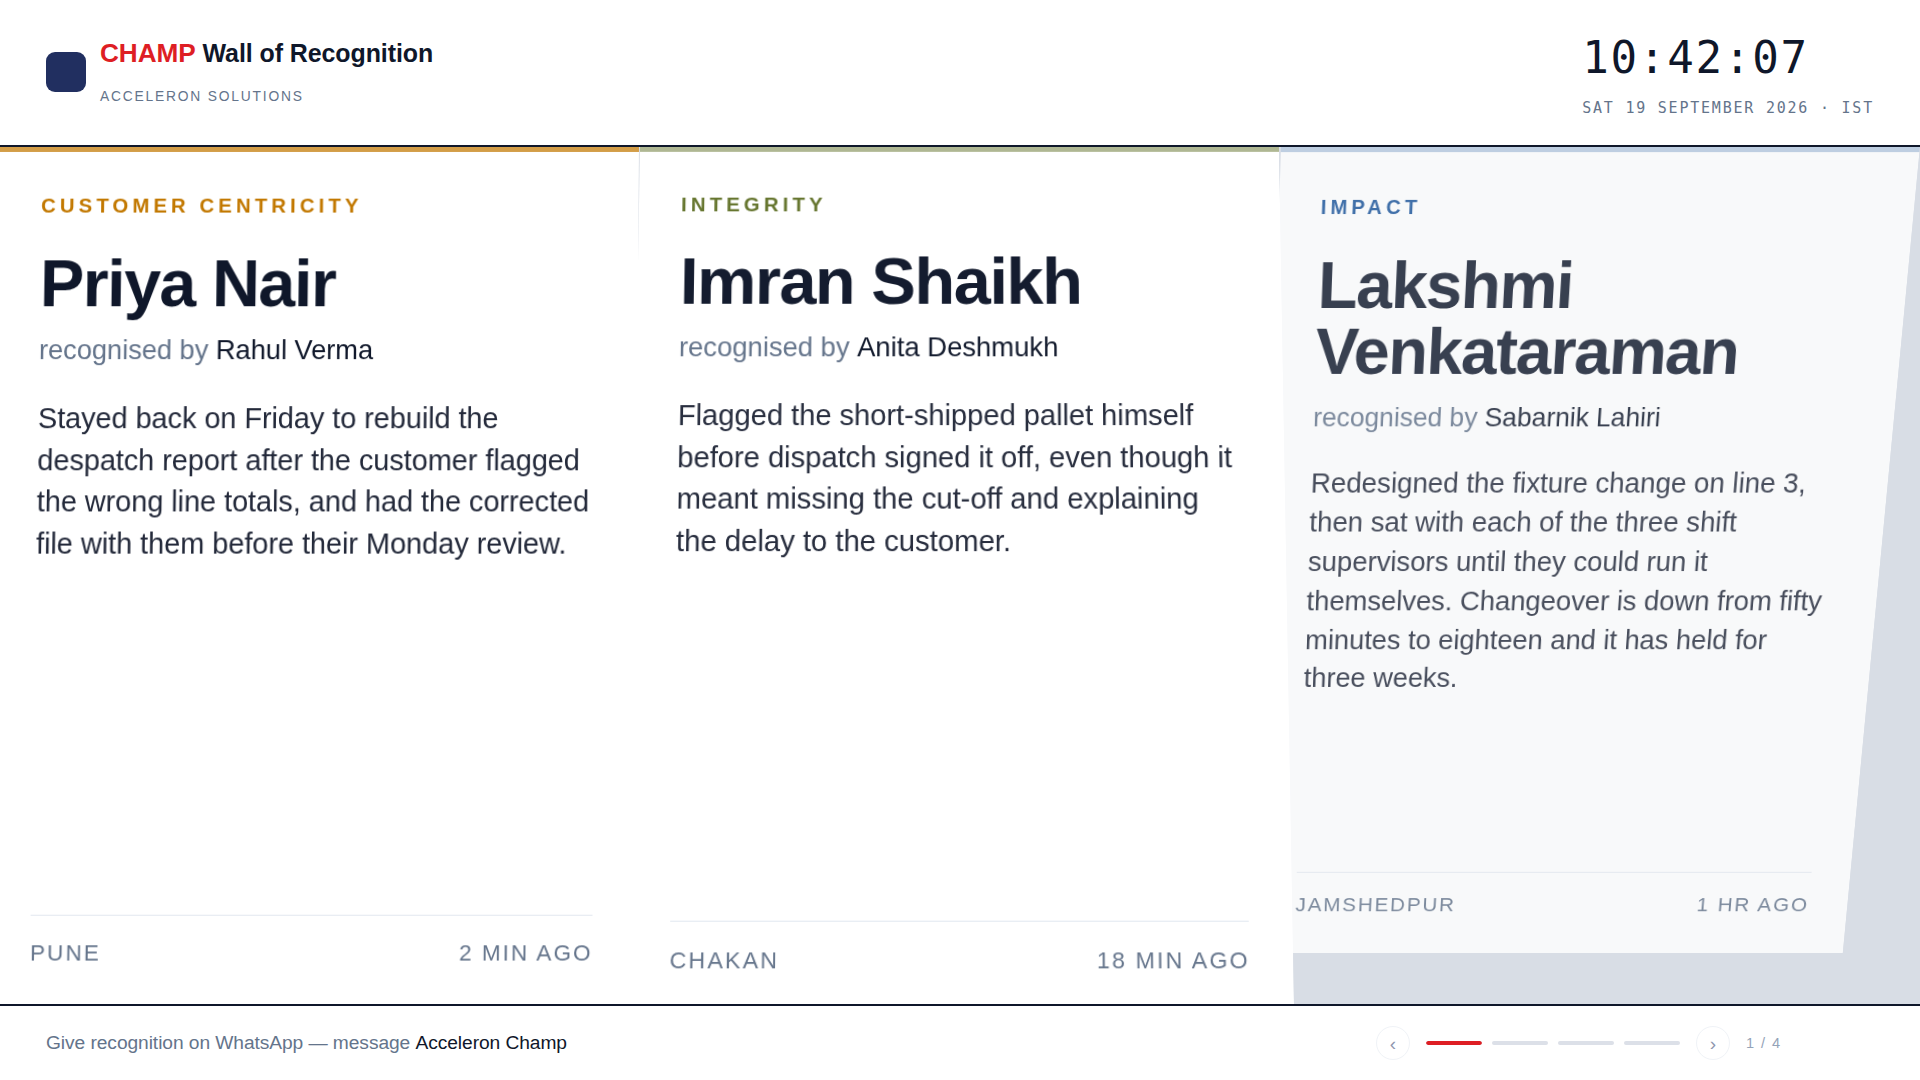
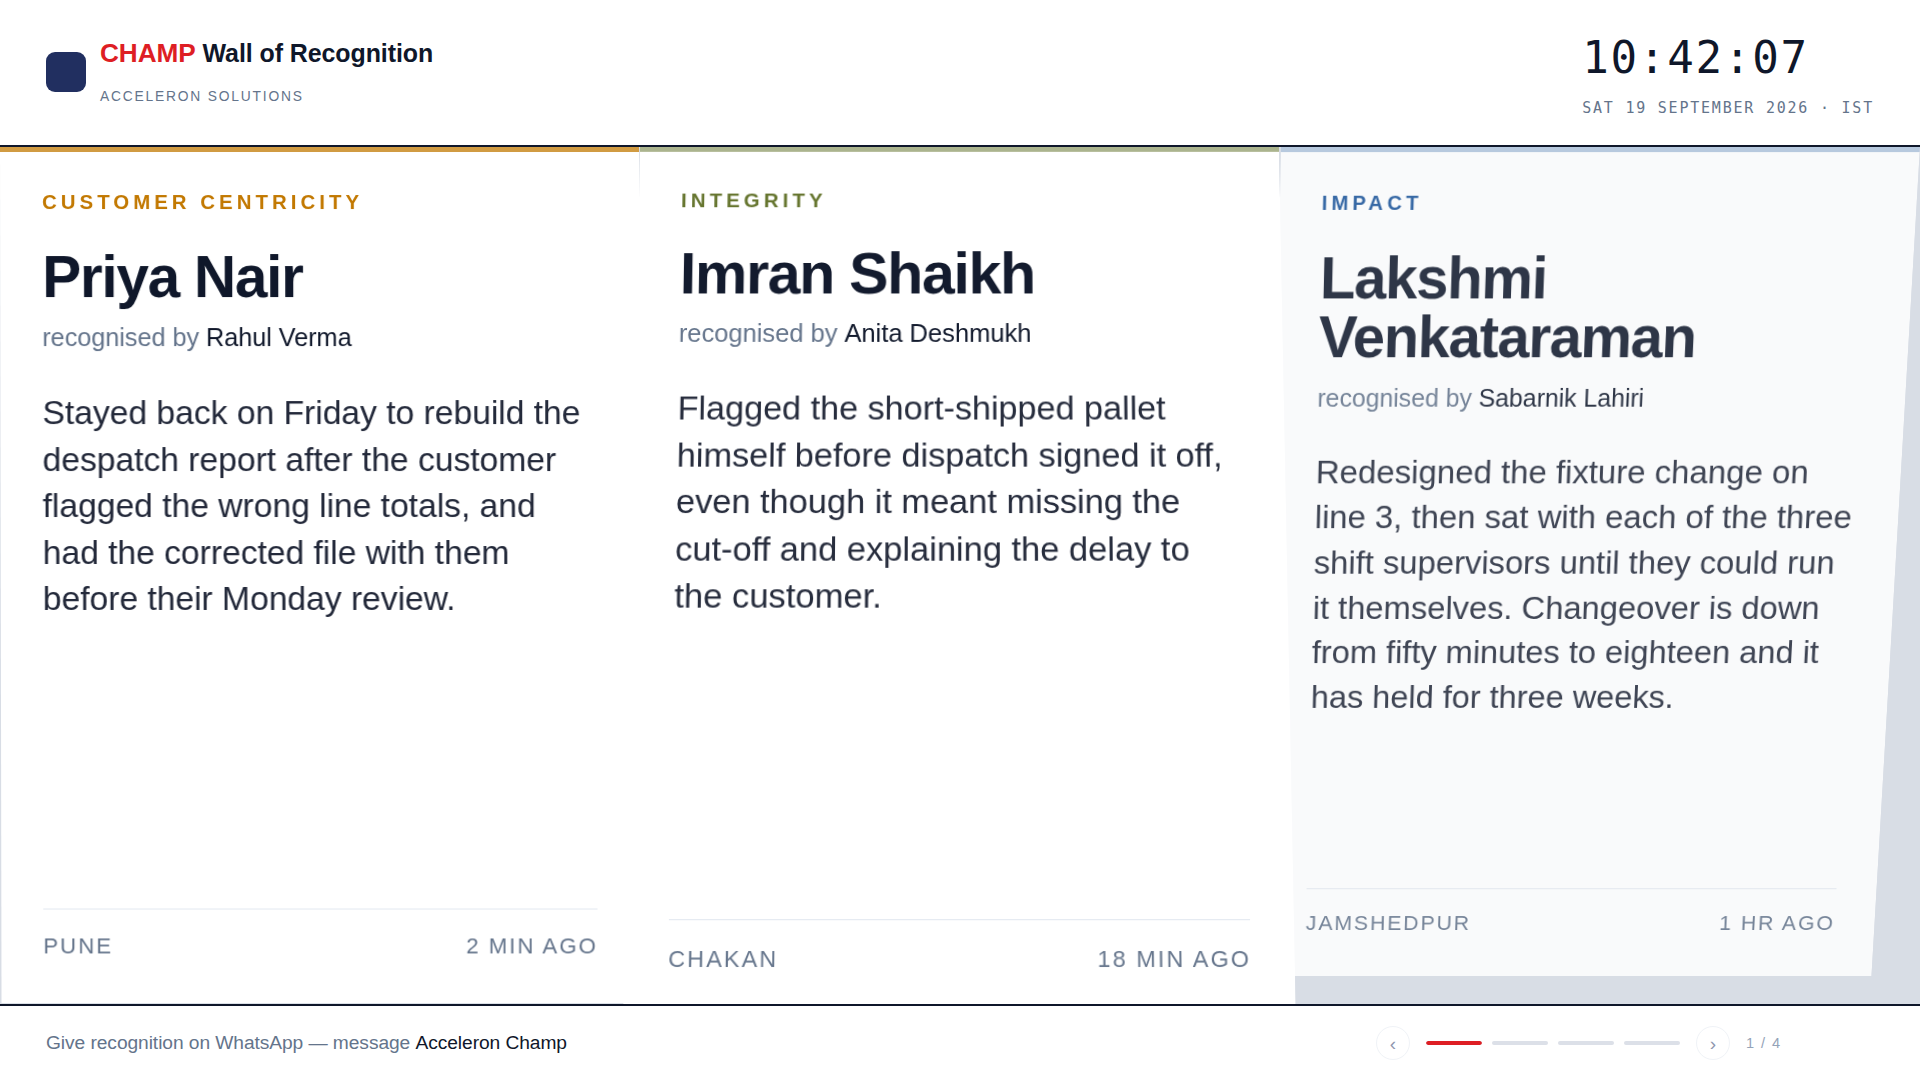
Slide 6

diff --git a/web/src/pages/Board.tsx b/web/src/pages/Board.tsx
@@ -46,7 +46,7 @@ const PER_SLIDE = 3
 const SLIDE_MS = 15_000
 /** How long the board pauses after somebody touches it. */
 const RESUME_MS = 30_000
-/** Gap between one tile flapping and the next — the cascade across the board. */
+/** Gap between one panel flapping and the next — the cascade across the board. */
 const FLAP_STAGGER_MS = 130
 const LIMIT = 12
 
@@ -330,9 +330,7 @@ function BoardTile({
     >
       <div className="bt-behaviour">{item.behaviour.name}</div>
 
-      <h2 className="bt-name">
-        <SplitFlapText text={item.recipient.name} startDelay={delay + 240} reduced={reduced} />
-      </h2>
+      <h2 className="bt-name">{item.recipient.name}</h2>
 
       <div className="bt-by">
         recognised by <strong>{item.giver.name}</strong>
@@ -350,11 +348,6 @@ function BoardTile({
   )
 }
 
-const FLAP_GLYPHS = 'ABCDEFGHIJKLMNOPQRSTUVWXYZ'
-/** Shuffles per character before it settles. Three is enough to read as motion
- *  without the name being illegible for long. */
-const FLAP_CYCLES = 3
-const FLAP_TICK_MS = 55
 /**
  * Sit a behaviour colour on a white ground without it going pale.
  *
@@ -404,83 +397,6 @@ function reasonSizeClass(reason: string): string {
   return ' is-longest'
 }
 
-/** Blank flap filler — keeps the column width steady while a name lands. */
-const NBSP = '\u00A0'
-
-/**
- * The split-flap effect, on the one field worth it: the name of the person
- * being recognised. Letters riffle and settle left to right, the way a flap
- * board resolves a destination.
- *
- * Deliberately one timer for the whole string rather than one per character —
- * a kiosk box is usually the cheapest machine in the building, and six of
- * these are on screen at once.
- */
-function SplitFlapText({
-  text,
-  startDelay,
-  reduced,
-}: {
-  text: string
-  startDelay: number
-  reduced: boolean
-}): React.ReactElement {
-  const [frame, setFrame] = useState(-1)
-
-  useEffect(() => {
-    if (reduced) return
-    setFrame(-1)
-    const total = text.length * FLAP_CYCLES
-    let tick = 0
-    let interval = 0
-    const start = window.setTimeout(() => {
-      interval = window.setInterval(() => {
-        tick += 1
-        setFrame(tick)
-        if (tick > total) window.clearInterval(interval)
-      }, FLAP_TICK_MS)
-    }, startDelay)
-    return () => {
-      window.clearTimeout(start)
-      if (interval) window.clearInterval(interval)
-    }
-  }, [text, startDelay, reduced])
-
-  if (reduced) return <>{text}</>
-
-  const chars = text.split('')
-  // Everything left of the cursor has landed, the character at it is
-  // riffling, and everything right of it is still a blank flap.
-  const cursor = frame < 0 ? -1 : Math.floor(frame / FLAP_CYCLES)
-  if (cursor >= chars.length) return <>{text}</>
-
-  return (
-    <>
-      <span aria-hidden>
-        {chars.map((char, i) => {
-          if (i < cursor) return <span key={i}>{char}</span>
-          if (i === cursor && char !== ' ') {
-            const glyph = FLAP_GLYPHS[(frame * 7 + i * 13) % FLAP_GLYPHS.length]
-            return (
-              <span key={i} className="flap-rolling">
-                {glyph}
-              </span>
-            )
-          }
-          // Blank flap: a non-breaking space holds the column width steady so
-          // the name does not visibly grow as it resolves.
-          return (
-            <span key={i} className="flap-blank">
-              {NBSP}
-            </span>
-          )
-        })}
-      </span>
-      {/* The real name stays in the accessibility tree while the flaps roll. */}
-      <span className="sr-only">{text}</span>
-    </>
-  )
-}
 
 function BoardCard({ item }: { item: FeedItem }): React.ReactElement {
   return (

diff --git a/web/src/styles.css b/web/src/styles.css
@@ -2566,21 +2566,6 @@ h3 { font-size: 15px; font-weight: 600; }
   color: var(--ink);
 }
 
-/* Visually hidden, still read aloud. The flap spans are aria-hidden while
-   they riffle, so the settled name has to live somewhere for a screen
-   reader — and for anything scraping the board. */
-.sr-only {
-  position: absolute;
-  width: 1px;
-  height: 1px;
-  padding: 0;
-  margin: -1px;
-  overflow: hidden;
-  clip: rect(0, 0, 0, 0);
-  white-space: nowrap;
-  border: 0;
-}
-
 /* ── header ──────────────────────────────────────────────────────────────── */
 .board-show .board-header {
   background: transparent;
@@ -2647,9 +2632,14 @@ h3 { font-size: 15px; font-weight: 600; }
   position: relative;
   display: flex;
   flex-direction: column;
+  /* Top-aligned, so the behaviour labels and the names line up across all
+     three columns — centring each panel independently leaves them at three
+     different heights, which is the thing that reads as untidy from a
+     distance. The leftover space collects in one band above the meta rule
+     instead of a gap in the middle. */
   min-height: 0;
   overflow: hidden;
-  padding: 44px 42px 38px;
+  padding: 40px 42px;
   background: #ffffff;
   /* The hinge a real flap turns on. */
   transform-origin: top center;
@@ -2714,33 +2704,27 @@ h3 { font-size: 15px; font-weight: 600; }
 .bt-name {
   margin: 0;
   font-family: var(--font-heading);
-  font-size: clamp(28px, 3.45vw, 72px);
+  font-size: clamp(26px, 3.05vw, 64px);
   font-weight: 900;
   line-height: 1.02;
   letter-spacing: -.022em;
   color: var(--ink);
-  /* Flap boards are monospaced because every character sits on one drum; the
-     tabular figures keep the riffle from shuffling the name sideways. */
-  font-variant-numeric: tabular-nums;
 }
-/* Mid-roll characters sit back so the landed ones read as settled. */
-.flap-rolling { color: #c3cad6; }
-.flap-blank { color: transparent; }
-
 .bt-by {
   margin-top: clamp(10px, 1.4vh, 20px);
-  font-size: clamp(16px, 1.42vw, 29px);
+  font-size: clamp(15px, 1.32vw, 27px);
   line-height: 1.3;
   font-weight: 300;
   color: var(--muted);
 }
 .bt-by strong { color: var(--ink); font-weight: 500; }
 
+/* The recognition is the point of the board — the name says who, this says
+   what they actually did, so it carries the most weight on the panel. */
 .bt-reason {
-  flex: 1;
-  margin: clamp(18px, 2.8vh, 40px) 0 0;
-  font-size: clamp(17px, 1.72vw, 36px);
-  line-height: 1.45;
+  margin: clamp(20px, 3.2vh, 44px) 0 0;
+  font-size: clamp(18px, 2.05vw, 43px);
+  line-height: 1.38;
   font-weight: 300;
   color: #23293a;
   /* The clamp is the last line of defence only; reasonSizeClass() in the
@@ -2751,16 +2735,16 @@ h3 { font-size: 15px; font-weight: 600; }
   overflow: hidden;
 }
 /* Longer reasons step down rather than getting their ending cut off. */
-.bt-reason.is-long    { font-size: clamp(16px, 1.5vw, 32px); }
-.bt-reason.is-longer  { font-size: clamp(15px, 1.3vw, 27px); }
-.bt-reason.is-longest { font-size: clamp(14px, 1.1vw, 23px); line-height: 1.4; }
+.bt-reason.is-long    { font-size: clamp(17px, 1.76vw, 37px); }
+.bt-reason.is-longer  { font-size: clamp(16px, 1.46vw, 30px); }
+.bt-reason.is-longest { font-size: clamp(14px, 1.18vw, 24px); line-height: 1.42; }
 
 .bt-meta {
   display: flex;
   align-items: center;
   justify-content: space-between;
   gap: 12px;
-  margin-top: clamp(16px, 2.2vh, 30px);
+  margin-top: auto;
   padding-top: clamp(14px, 1.8vh, 26px);
   border-top: 1px solid var(--line);
   font-size: clamp(13px, 1.16vw, 24px);
